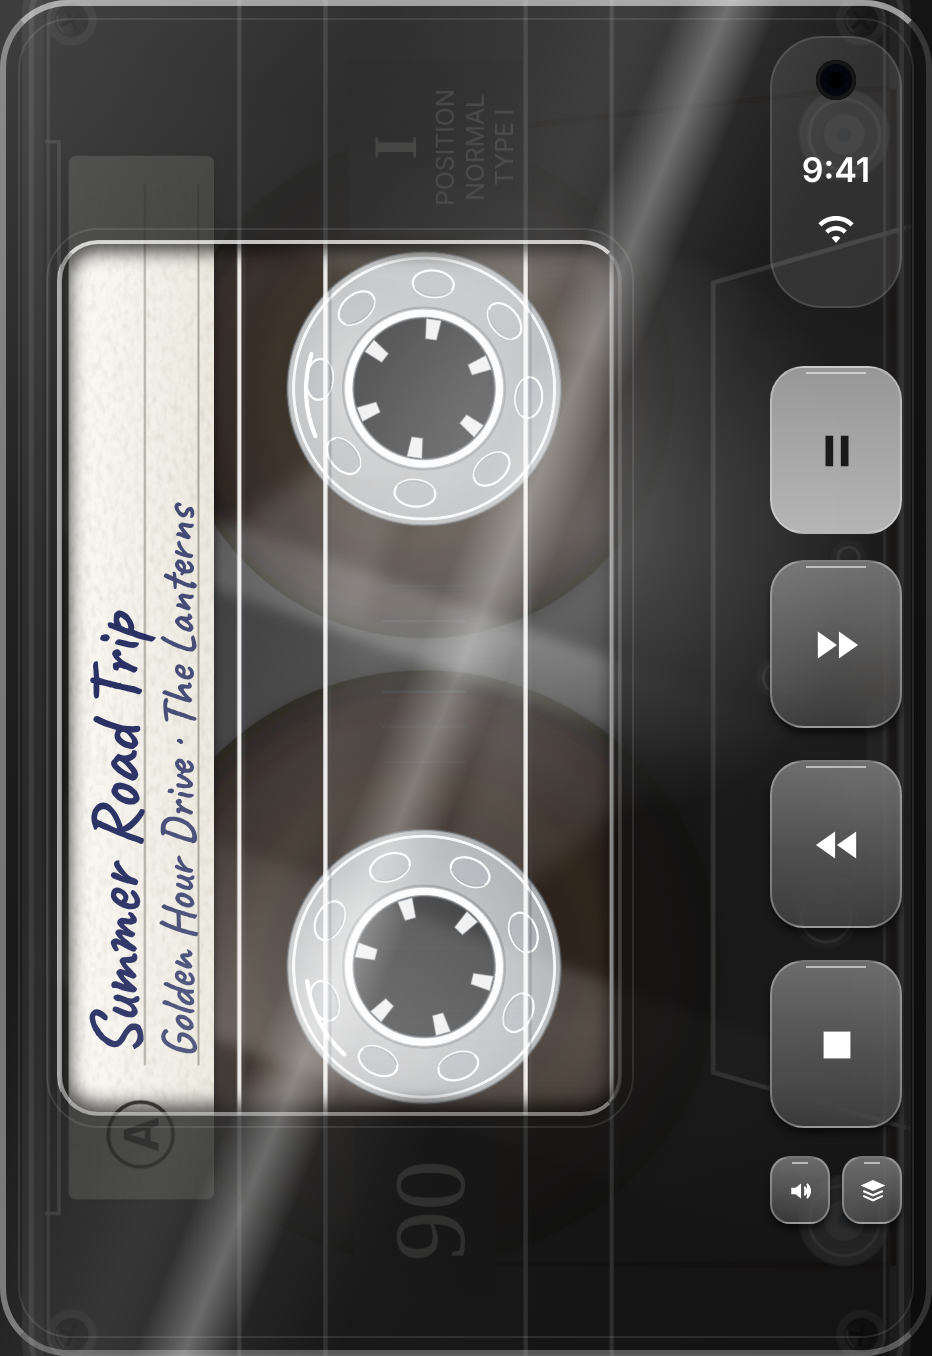
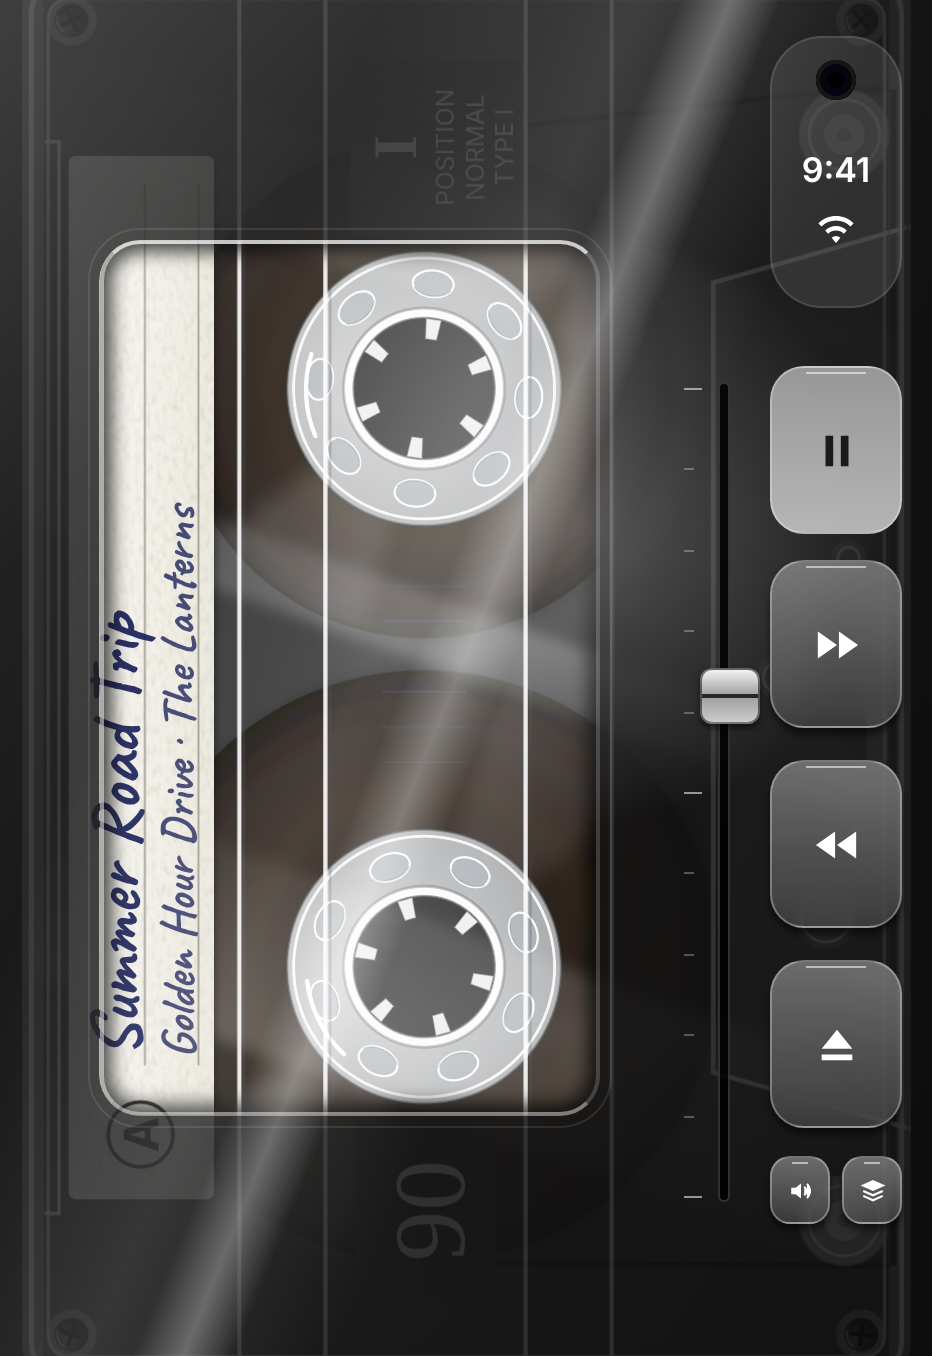
Add a vertical volume fader; bring the window in; drop drawn screen corners
The fader stands left of the keys, sets the system volume and follows
the side buttons. The window sits further in from the screen edge, and
the rounded outline drawn at the screen edge is removed because it could
not match the phone's own corners.

Claude-Session: https://claude.ai/code/session_015CNmSEpanpmujmbPK8yXHv

diff --git a/TapeDeck/VolumeFader.swift b/TapeDeck/VolumeFader.swift
@@ -1,0 +1,133 @@
+import AVFoundation
+import MediaPlayer
+import SwiftUI
+
+/// The phone's own volume, readable and settable.
+///
+/// iOS has no direct call for setting the system volume. The supported control
+/// is `MPVolumeView`; this keeps one out of sight and moves its slider. Reading
+/// comes from the audio session, so the fader also follows the side buttons.
+@MainActor
+final class SystemVolume: ObservableObject {
+    @Published private(set) var level: Double
+    let volumeView = MPVolumeView(frame: CGRect(x: 0, y: 0, width: 120, height: 40))
+
+    private var observation: NSKeyValueObservation?
+    private var lastSet = Date.distantPast
+
+    init() {
+        let session = AVAudioSession.sharedInstance()
+        level = Double(session.outputVolume)
+        observation = session.observe(\.outputVolume, options: [.new]) { [weak self] _, change in
+            guard let value = change.newValue else { return }
+            Task { @MainActor in
+                // Ignore echoes of our own changes while the fader is moving.
+                guard let self, Date().timeIntervalSince(self.lastSet) > 0.3 else { return }
+                self.level = Double(value)
+            }
+        }
+    }
+
+    func set(_ newLevel: Double) {
+        let clamped = min(max(newLevel, 0), 1)
+        level = clamped
+        lastSet = Date()
+        Self.slider(in: volumeView)?.value = Float(clamped)
+    }
+
+    private static func slider(in view: UIView) -> UISlider? {
+        if let slider = view as? UISlider { return slider }
+        for child in view.subviews {
+            if let found = slider(in: child) { return found }
+        }
+        return nil
+    }
+}
+
+/// Keeps the system volume view in the window, where it has to be to work,
+/// without showing it.
+private struct VolumeHost: UIViewRepresentable {
+    let view: MPVolumeView
+
+    func makeUIView(context: Context) -> MPVolumeView { view }
+    func updateUIView(_ uiView: MPVolumeView, context: Context) {}
+}
+
+/// A vertical volume fader, as on a tape deck: a groove with tick marks and a
+/// cap you slide. Up is louder. It clicks under the thumb as it passes each
+/// step, and it follows the phone's volume buttons.
+struct VolumeFader: View {
+    @StateObject private var volume = SystemVolume()
+    @State private var lastStep = -1
+
+    private let capHeight: CGFloat = 28
+    private let steps = 16.0
+
+    var body: some View {
+        GeometryReader { geo in
+            let travel = max(1, geo.size.height - capHeight)
+            let capTop = CGFloat(1 - volume.level) * travel
+            ZStack(alignment: .top) {
+                // Tick marks down the left of the groove
+                VStack(spacing: 0) {
+                    ForEach(0..<11, id: \.self) { tick in
+                        Rectangle()
+                            .fill(Color.white.opacity(tick % 5 == 0 ? 0.55 : 0.28))
+                            .frame(width: tick % 5 == 0 ? 9 : 5, height: 1)
+                        if tick < 10 { Spacer(minLength: 0) }
+                    }
+                }
+                .padding(.vertical, capHeight / 2)
+                .frame(maxWidth: .infinity, alignment: .leading)
+
+                // The groove
+                Capsule()
+                    .fill(Color.black.opacity(0.85))
+                    .overlay(Capsule().strokeBorder(Color.white.opacity(0.18), lineWidth: 0.75))
+                    .frame(width: 6)
+                    .padding(.vertical, capHeight / 2 - 3)
+                    .frame(maxWidth: .infinity)
+
+                // The cap
+                RoundedRectangle(cornerRadius: 6)
+                    .fill(LinearGradient(colors: [Color(white: 0.95), Color(white: 0.62), Color(white: 0.80)],
+                                         startPoint: .top, endPoint: .bottom))
+                    .overlay(Rectangle().fill(Color(white: 0.15)).frame(height: 1.5))
+                    .overlay(RoundedRectangle(cornerRadius: 6).strokeBorder(Color.black.opacity(0.5), lineWidth: 0.75))
+                    .frame(width: 30, height: capHeight)
+                    .shadow(color: .black.opacity(0.55), radius: 3, y: 2)
+                    .offset(x: 3, y: capTop)
+                    .frame(maxWidth: .infinity)
+            }
+            .contentShape(Rectangle())
+            .gesture(
+                DragGesture(minimumDistance: 0)
+                    .onChanged { drag in
+                        let level = 1 - Double((drag.location.y - capHeight / 2) / travel)
+                        volume.set(level)
+                        let step = Int((min(max(level, 0), 1) * steps).rounded())
+                        if step != lastStep {
+                            lastStep = step
+                            Haptics.detent()
+                        }
+                    }
+            )
+            .background(
+                VolumeHost(view: volume.volumeView)
+                    .frame(width: 1, height: 1)
+                    .opacity(0.01)
+                    .allowsHitTesting(false)
+            )
+        }
+        .accessibilityElement(children: .ignore)
+        .accessibilityLabel("Volume")
+        .accessibilityValue("\(Int((volume.level * 100).rounded())) percent")
+        .accessibilityAdjustableAction { direction in
+            switch direction {
+            case .increment: volume.set(volume.level + 1 / steps)
+            case .decrement: volume.set(volume.level - 1 / steps)
+            @unknown default: break
+            }
+        }
+    }
+}

diff --git a/TapeDeck/DeckView.swift b/TapeDeck/DeckView.swift
@@ -34,14 +34,20 @@ struct DeckView: View {
             let rail = max(insets.leading, insets.trailing) >= 60
             let railLeading = rail && insets.leading > insets.trailing
             HStack(spacing: 0) {
-                if railLeading { keyColumn(insets: insets, rail: true, leading: true) }
+                if railLeading {
+                    keyColumn(insets: insets, rail: true, leading: true)
+                    fader(insets: insets, rail: true)
+                }
                 // The face itself is drawn in the background, full screen.
                 Color.clear
                     .contentShape(Rectangle())
                     .onTapGesture {
                         if !model.hasTape { openShelf() }
                     }
-                if !railLeading { keyColumn(insets: insets, rail: rail, leading: false) }
+                if !railLeading {
+                    fader(insets: insets, rail: rail)
+                    keyColumn(insets: insets, rail: rail, leading: false)
+                }
             }
             .frame(width: geo.size.width + insets.leading + insets.trailing,
                    height: geo.size.height + insets.top + insets.bottom)
@@ -61,7 +67,7 @@ struct DeckView: View {
     /// The part of the cassette the window shows, in millimetres of its
     /// 100 x 63 shell: the label strip and both reels. Everything else, the
     /// ends, the guide rollers and the head opening, is under the casing.
-    private let windowOnCassette = CGRect(x: 19, y: 2.5, width: 62, height: 40)
+    private let windowOnCassette = CGRect(x: 19, y: 5.5, width: 62, height: 35.5)
 
     /// The cassette filling the whole screen (on end when the screen is
     /// taller than wide, head opening toward the keys), with the player's
@@ -171,21 +177,15 @@ struct DeckView: View {
         }
     }
 
-    /// The surface of the body: a fixed reflection, the glare that follows the
-    /// phone as it moves, and bright edges where the plastic curves.
+    /// The surface of the body: a fixed reflection and the glare that follows
+    /// the phone as it moves.
     private var clearCase: some View {
         ZStack {
             LinearGradient(colors: [Color.white.opacity(0.12), Color.white.opacity(0.02), .clear],
                            startPoint: .topLeading, endPoint: .center)
             GlassShimmer()
-            RoundedRectangle(cornerRadius: 26)
-                .strokeBorder(Color.white.opacity(0.10), lineWidth: 1.5)
-                .padding(9)
-            RoundedRectangle(cornerRadius: 34)
-                .strokeBorder(LinearGradient(colors: [Color.white.opacity(0.55), Color.white.opacity(0.10),
-                                                      Color.white.opacity(0.28)],
-                                             startPoint: .topLeading, endPoint: .bottomTrailing),
-                              lineWidth: 3)
+            // No drawn edge here: the phone's own corners are the edge of
+            // the player, and a drawn one never quite matches their curve.
         }
         .allowsHitTesting(false)
     }
@@ -222,6 +222,24 @@ struct DeckView: View {
 
     private func keyHeight(room: CGFloat) -> CGFloat {
         min(bigKeyHeight, max(40, (room - smallKeysRoom - 3 * keyGap) / 4))
+    }
+
+    /// The volume fader, standing beside the keys and as tall as they are.
+    private func fader(insets: EdgeInsets, rail: Bool) -> some View {
+        GeometryReader { geo in
+            let top = rail ? railStatusHeight : insets.top + 12
+            let bottom = insets.bottom + 12
+            let room = geo.size.height - top - bottom
+            let column = 4 * keyHeight(room: room) + 3 * keyGap + smallKeysRoom
+            VStack(spacing: 0) {
+                if !rail { Spacer(minLength: 0) }
+                VolumeFader().frame(height: min(column, max(60, room)))
+                Spacer(minLength: 0)
+            }
+            .padding(.top, top)
+            .padding(.bottom, bottom)
+        }
+        .frame(width: 40)
     }
 
     /// The column of keys. In the Duo's rail it starts below the camera and

diff --git a/TapeDeck/Haptics.swift b/TapeDeck/Haptics.swift
@@ -38,6 +38,11 @@ enum Haptics {
         rigid.impactOccurred(intensity: 0.6)
     }
 
+    /// One notch of the volume fader.
+    static func detent() {
+        light.impactOccurred(intensity: 0.4)
+    }
+
     /// One beat of the motor while the tape winds.
     static func windTick() {
         soft.impactOccurred(intensity: 0.45)

diff --git a/README.md b/README.md
@@ -6,7 +6,7 @@ A cassette player for Apple Music. Your playlists and albums are tapes on a shel
 
 * Plays your Apple Music library and anything from the Apple Music catalogue (MusicKit).
 * Closed phone (or any ordinary phone screen): the whole screen is the body of a tape player with the cassette inside it. The cassette is as large as the screen allows and runs underneath the body and the keys. The smoked casing covers most of it, dimly showing what is underneath, and a clear window over the label and reels shows the tape itself. Colours are neutral throughout: greys, black and off-white. Glare on the body moves only when the phone moves: reflections slide as it tilts left and right, and a hot spot follows both tilts.
-* Built for the iPhone Duo's outer display, 466 x 678 points. iOS reserves an 84 point column down one side for the camera, clock and status icons; four large keys (play/pause, fast forward, rewind, stop/eject) and two small ones for sound effects and the tape shelf sit in that column underneath them. On other phones the keys get their own strip. Volume is on the phone's own buttons.
+* Built for the iPhone Duo's outer display, 466 x 678 points. iOS reserves an 84 point column down one side for the camera, clock and status icons; four large keys (play/pause, fast forward, rewind, stop/eject) and two small ones for sound effects and the tape shelf sit in that column underneath them. On other phones the keys get their own strip. A vertical volume fader stands to the left of the keys; it sets the phone's volume and follows the side buttons.
 * Haptics: a firm tap when a key goes down, a lighter one when it springs back, a heavy thud for the cassette door, and a soft pulse four times a second while the tape winds.
 * The cassette is a clear one. The shell front is see-through artwork (bright moulded edges and ridges, stickers, a stick-on paper label, guide rollers, black screws, reflections). Under it the whole reels, their clear hubs, the tape running down to the rollers and the handwriting on the label are drawn live. The artwork source is `tools/cassette-art.html`; `node tools/render-art.js` re-renders it.
 * Open phone (a large, wide screen): the tape shelf on the left and the chosen tape on the right. The shelf shows each playlist and album as a cassette spine: an off-white card with the name handwritten on it and a grey band. Pick a tape, then close the phone to start it playing. The keys are there too, for screens that cannot fold.
@@ -47,7 +47,8 @@ These came from developer write-ups, not from a device, so check them in Xcode's
 | `DeckView.swift` | The closed phone: player body, cassette door and key strip |
 | `OpenTrayView.swift` | The open phone's right half, where the chosen tape waits |
 | `GlassShimmer.swift` | The glare on the case, driven by the motion sensor |
-| `Haptics.swift` | The taps for keys, door and winding |
+| `Haptics.swift` | The taps for keys, door, fader and winding |
+| `VolumeFader.swift` | The vertical volume fader and its link to the system volume |
 | `ShelfView.swift` | The tape shelf and search |
 | `LockScreenTape.swift` | Starts and updates the lock screen Live Activity |
 | `Shared/TapeActivity.swift` | Data and key actions shared by the app and the widget extension |
